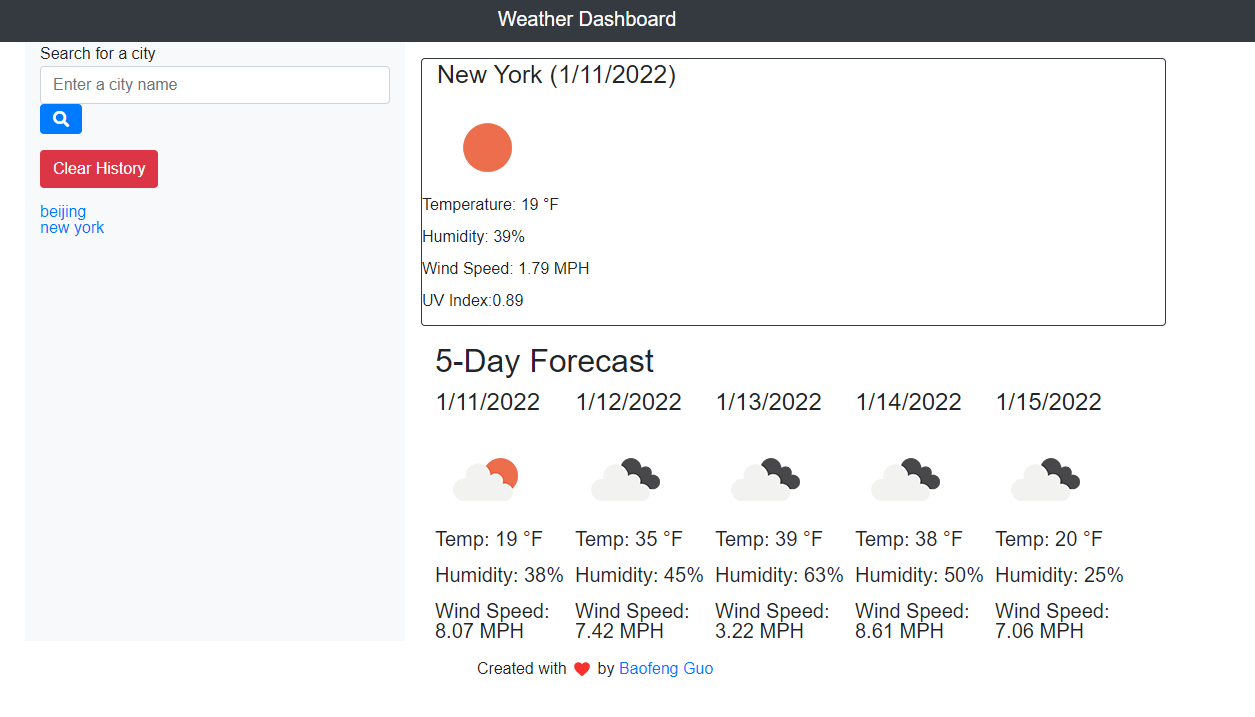
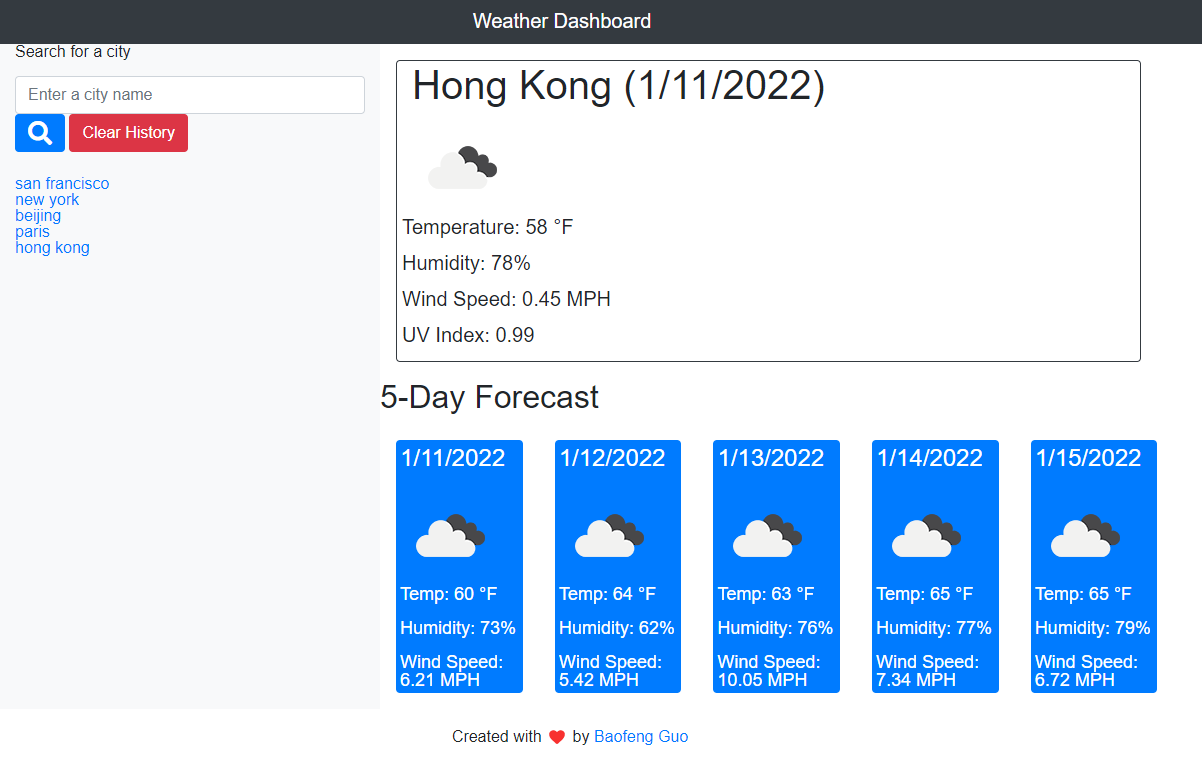
Reuploaded the screenshot.

diff --git a/index.html b/index.html
@@ -22,10 +22,10 @@
                 <p class="search-header">Search for a city</p>
                 <div class="search mb-3">
                     <input id="city-input" type="text" class="form-control" placeholder="Enter a city name">
-                    <button class="btn searchBtn btn-primary fas fa-search" type="button" id="search-button">
+                    <button class="btn searchBtn btn-primary mb-2 fas fa-search" type="button" style='font-size:24px' id="search-button">
                     </button>
-                </div>
-                <button class="btn clearBtn btn-danger mb-3" type="button" id="clear-button">Clear History</button>
+                    <button class="btn clearBtn btn-danger mb-2" type="button" id="clear-button">Clear History</button>
+                </div> 
                 <form id="searchedCities" class="history"></form>
             </div>
             <!--Right column elements-->

diff --git a/assets/script.js b/assets/script.js
@@ -108,7 +108,7 @@ function getWeather(cityName){
 
 // Create forcast cards for 5 days
 function createForecast(date, icon, temp, humidity, windSpeed) {
-    let fiveDayCardEl = $("<div>").addClass("card-panel justify-content-space-between col-sm-2 bg-primary text-white m-2 p-2 rounded");
+    let fiveDayCardEl = $("<div>").addClass("card-panel col-sm-2 bg-primary text-white m-3 p-1 rounded");
     let cardDate = $("<h4>").addClass("card-title");
     let cardIcon = $("<img>").addClass("weatherIcon");
     let cardTemp = $("<p>").addClass("card-text");
